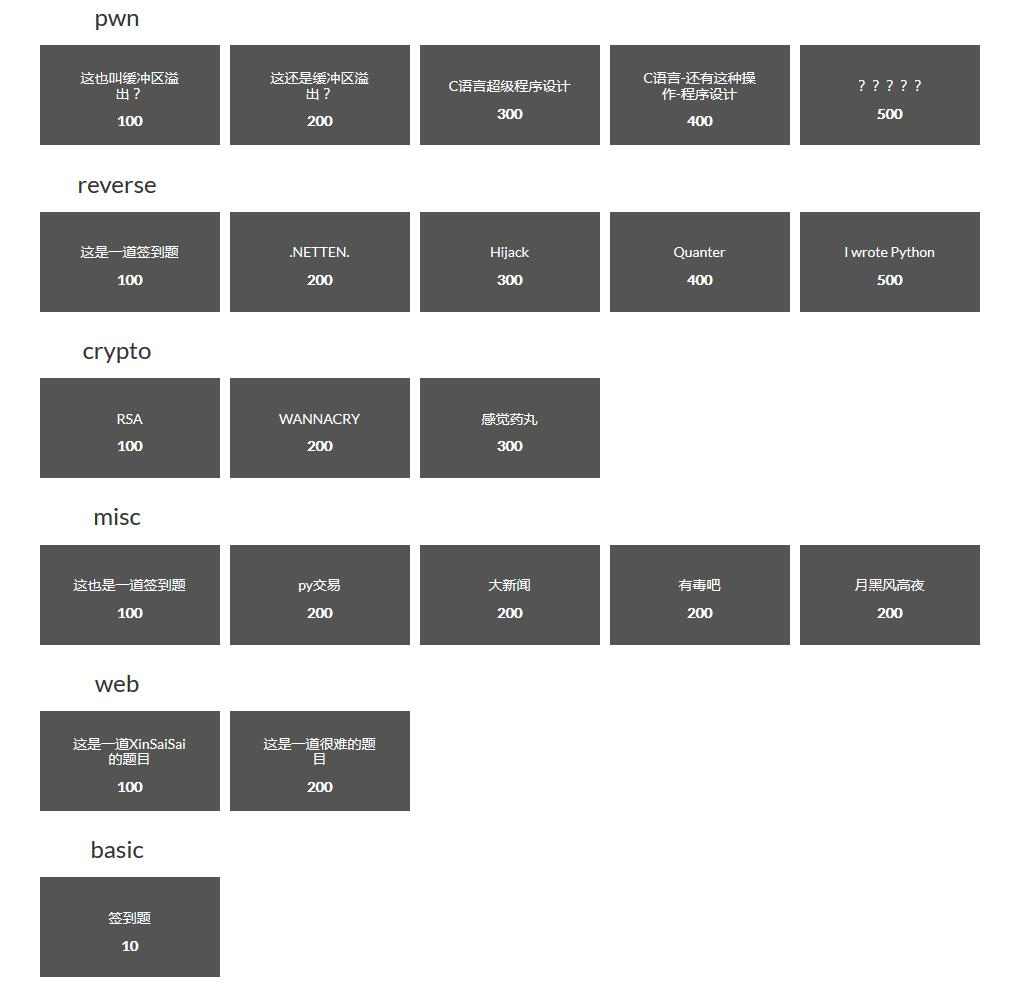
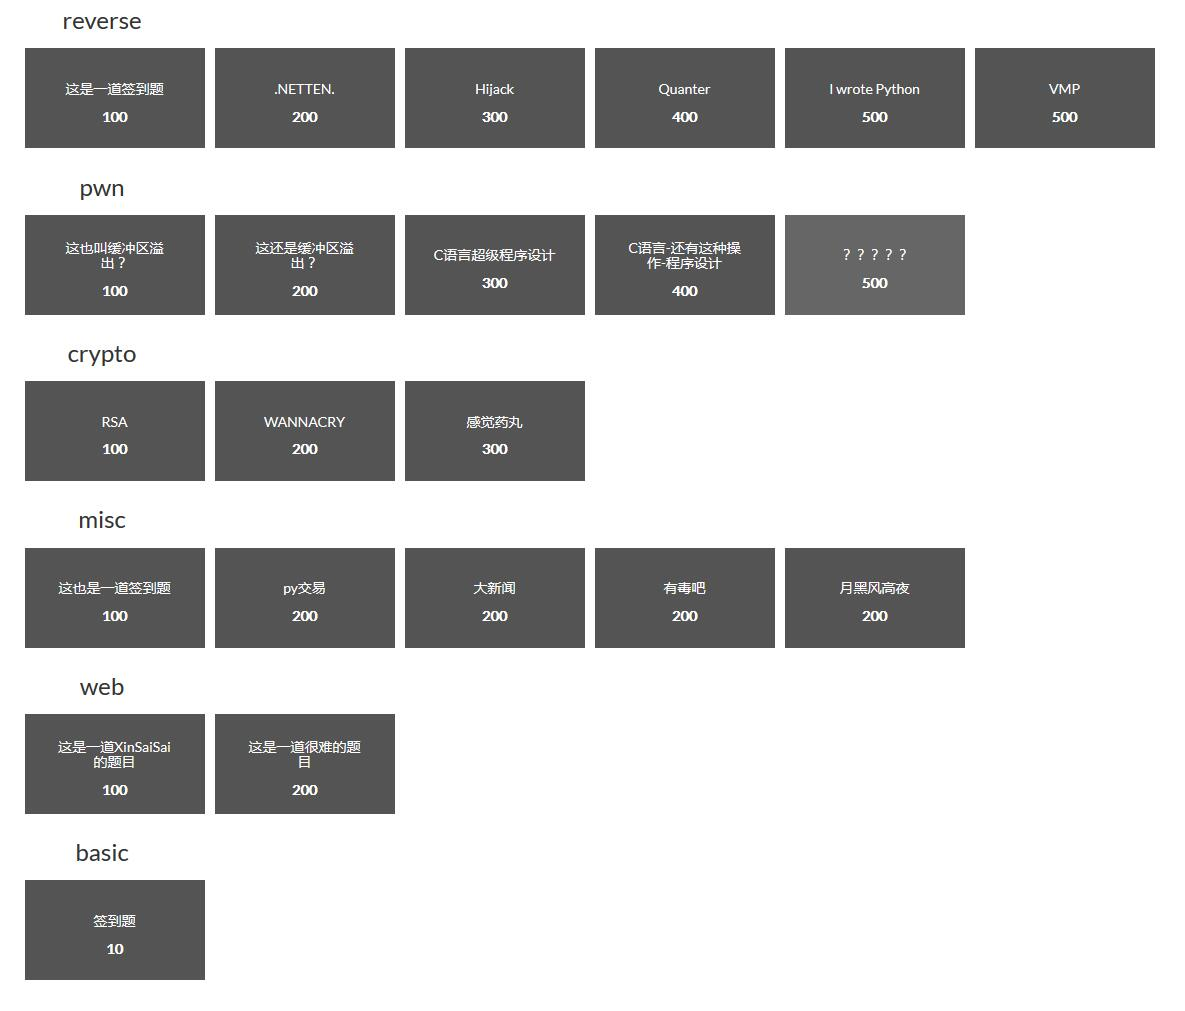
update

diff --git a/upto11_7.md b/upto11_7.md
@@ -2,11 +2,13 @@
 
 由我校网络安全社团主办的同济大学第二届信息安全竞赛于2017年11月3日零点准时开始。至今已进行五天，目前比赛依然在火热进行中。
 
-截至2017年11月7日19时，主办方共放出`18`题：
+截至2017年11月7日20时，主办方共放出`22`题：
 
 ![]({{ site.url }}/images/七日放出题目.jpg)
 
-截至2017年11月7日19时，`zilcH40`选手以`4310`分位居第一。排名情况如下：
+本次竞赛**赛题投放到此结束**，比赛还将持续`2天`时间。
+
+截至2017年11月7日20时，`zilcH40`选手以`4310`分位居第一。排名情况如下：
 
 前十名：
 
@@ -20,7 +22,7 @@
 
 ![]({{ site.url }}/images/七日题目解决.jpg)
 
-本次比赛还将持续`2天`时间，今日为**赛题投放的最后一天**。
+---
 
 比赛结束后，我们将会对本次比赛赛题进行讲解，并开展相对应的基础培训活动，欢迎感兴趣的同学到时参加！
 
